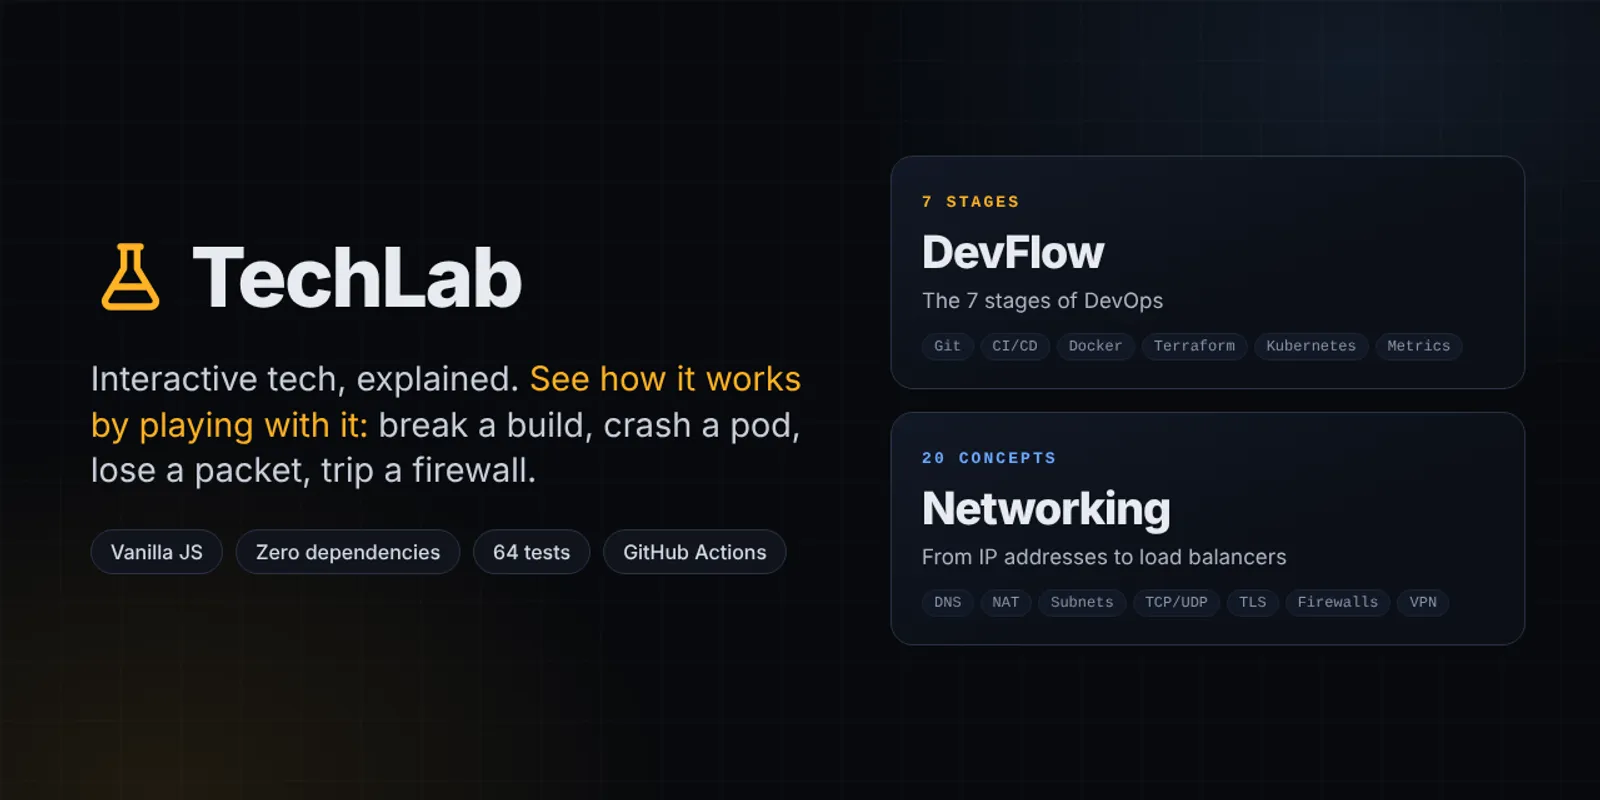
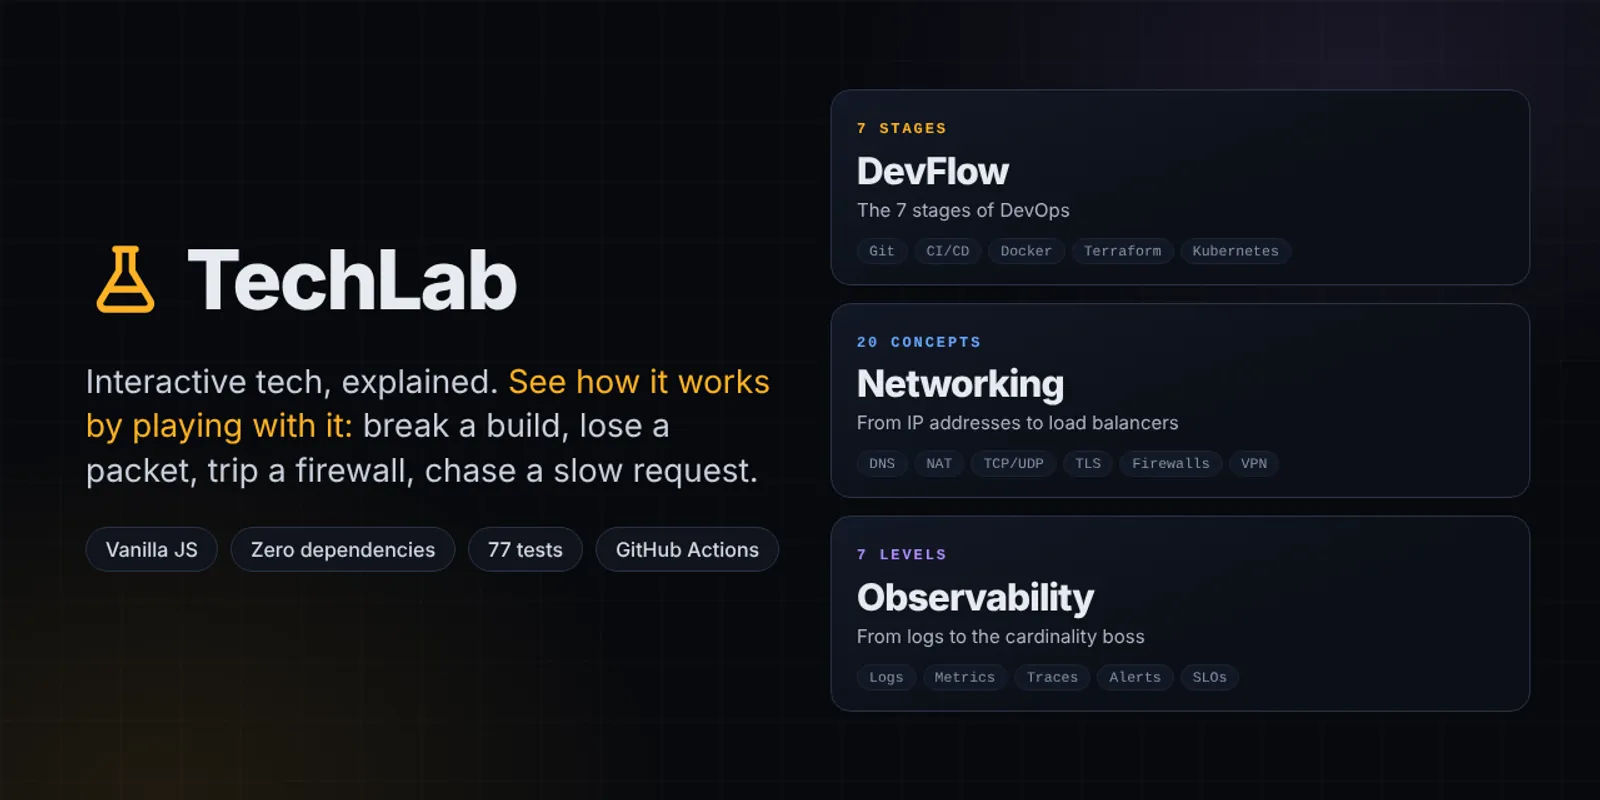
TechLab: add the Observability section

diff --git a/assets/js/data.js b/assets/js/data.js
@@ -72,13 +72,13 @@ const CV = {
       details:["Fictional field force for Solenne Biosciences in Portugal, preparing for the launch of a new medicine","11 skills in 5 areas, each with a target per role and a business demand level; a coach suggests the next quest from the biggest gaps","Five quest types, including playable quizzes and role-plays reviewed by the team lead before XP is awarded","XP, levels, daily streaks, badges, a weekly league and a shared team challenge, designed to stay fair: only learning earns XP","Team leads and L&D get adoption KPIs, a demand vs gap matrix, launch readiness and a skills heatmap with CSV export","Every game rule is a pure function covered by Vitest unit tests; React 19, Tailwind CSS v4 and Framer Motion on Vite","GitHub Actions tests, builds and deploys to GitHub Pages"] },
 { name:"TechLab", category:"Web", repo:"DiogoS7/TechLab",
       url:"https://github.com/DiogoS7/TechLab", demo:"https://diogos7.github.io/TechLab/",
-      desc:"Interactive tech, explained. A hub of hands-on simulations with two sections: DevFlow, the 7 stages of DevOps from a Git commit to production, and Networking, 20 must-know concepts from IP addresses and DNS to TCP, TLS, firewalls and load balancers.",
+      desc:"Interactive tech, explained. A hub of hands-on simulations with three sections: DevFlow, the 7 stages of DevOps from a Git commit to production; Networking, 20 must-know concepts from IP addresses and DNS to TCP, TLS, firewalls and load balancers; and Observability, 7 levels from logs to the cardinality boss, used to solve one incident.",
       skills:["JavaScript","HTML & CSS","Testing & QA","Automated testing & CI","Metrics & reporting","Documentation & traceability","Git & GitHub"],
       context:"Personal project · JavaScript · 2026",
       shots:[
-        {src:"assets/img/shots/techlab-cover.webp", caption:"TechLab: interactive tech, explained"},
-        {src:"assets/img/shots/techlab-demo.gif", caption:"From the hub into Networking: the OSI and Packets demos, a lost TCP segment being resent, and a firewall rule switched off"},
-        {src:"assets/img/shots/techlab-hub.webp", caption:"The hub: pick DevFlow or Networking"},
+        {src:"assets/img/shots/techlab-cover.webp?v=3", caption:"TechLab: interactive tech, explained"},
+        {src:"assets/img/shots/techlab-demo.gif?v=3", caption:"From the hub into Observability: structured logs, a slow release in p95, the slow span in a trace and the cardinality boss; then a lost TCP segment in Networking"},
+        {src:"assets/img/shots/techlab-hub.webp?v=3", caption:"The hub: pick DevFlow, Networking or Observability"},
         {src:"assets/img/shots/techlab-devflow.webp", caption:"DevFlow: the seven stages of DevOps as a stack"},
         {src:"assets/img/shots/techlab-devflow-cicd.webp", caption:"DevFlow · CI/CD: a broken build stops at unit tests and production keeps the last green build"},
         {src:"assets/img/shots/techlab-devflow-kubernetes.webp", caption:"DevFlow · Kubernetes: crash a pod and watch the control loop replace it"},
@@ -91,9 +91,18 @@ const CV = {
         {src:"assets/img/shots/techlab-net-firewall.webp", caption:"Firewalls: switch rules on and off; the first match decides"},
         {src:"assets/img/shots/techlab-net-lb.webp", caption:"Load balancers: round robin versus least connections, with one slow server"},
         {src:"assets/img/shots/techlab-journey.webp", caption:"Put it together: every concept in one page load of techlab.example"},
-        {src:"assets/img/shots/techlab-mobile.webp", caption:"Mobile: the hub, DevFlow and Networking on a phone"}
+        {src:"assets/img/shots/techlab-observability.webp", caption:"Observability: seven levels, from logs to the cardinality boss"},
+        {src:"assets/img/shots/techlab-obs-logs.webp", caption:"Logs: structured logs filtered by level and service instead of scrolling"},
+        {src:"assets/img/shots/techlab-obs-metrics.webp", caption:"Metrics: a slow release shows up in p95 while the average barely moves"},
+        {src:"assets/img/shots/techlab-obs-traces.webp", caption:"Traces: the waterfall shows the database span doing the waiting"},
+        {src:"assets/img/shots/techlab-obs-correlation.webp", caption:"Correlation: one request ID pulls up its logs, trace and metrics, including the culprit"},
+        {src:"assets/img/shots/techlab-obs-alerts.webp", caption:"Alerts: a sensible rule waits for the problem to last and pages once"},
+        {src:"assets/img/shots/techlab-obs-slos.webp", caption:"SLOs: SLI, SLO and SLA side by side, with the error budget burning"},
+        {src:"assets/img/shots/techlab-obs-cardinality.webp", caption:"The cardinality boss: a user ID label turns 60 time series into 60 million"},
+        {src:"assets/img/shots/techlab-incident.webp", caption:"Debug the incident: from the first page to the missing database index"},
+        {src:"assets/img/shots/techlab-mobile.webp?v=3", caption:"Mobile: the hub, Networking and Observability on a phone"}
       ],
-      details:["Two sections: DevFlow (7 DevOps stages, ending in a team self-check) and Networking (20 concepts, ending with all of them in one page load)","Every concept has a hands-on demo: revert a commit, crash a pod, lose a TCP segment, follow a DNS lookup, split a subnet, trip a firewall, compare load-balancing strategies","Simulation logic in pure functions: CIDR maths, longest-prefix routing, NAT, DHCP leases, ARP, switch learning, TCP/UDP, DNS TTLs, certificate checks, firewall rules, plus the DevOps pipeline, Terraform plan and Kubernetes control loop","One screen per concept with Previous/Next buttons, arrow keys and a clickable progress bar; every page has its own shareable address","Zero dependencies: plain JavaScript modules and CSS, no framework and no build step","64 unit tests on Node's built-in test runner","GitHub Actions tests, checks every file reference and deploys to GitHub Pages"] },
+      details:["Three sections: DevFlow (7 DevOps stages, ending in a team self-check), Networking (20 concepts, ending with all of them in one page load) and Observability (7 levels, ending with one incident debugged from page to fix)","Every concept has a hands-on demo: revert a commit, crash a pod, lose a TCP segment, follow a DNS lookup, trip a firewall, filter structured logs, find the slow span in a trace, fight the cardinality boss","Simulation logic in pure functions: the DevOps pipeline, Terraform plan and Kubernetes control loop; CIDR maths, routing, NAT, DHCP, ARP, TCP/UDP, DNS and certificate checks; log filtering, percentiles, trace self time, alert rules, SLO burn rate and cardinality","One screen per concept with Previous/Next buttons, arrow keys and a clickable progress bar; every page has its own shareable address","Zero dependencies: plain JavaScript modules and CSS, no framework and no build step","77 unit tests on Node's built-in test runner","GitHub Actions tests, checks every file reference and deploys to GitHub Pages"] },
 { name:"QualityView", category:"Web", repo:"DiogoS7/QualityView",
       url:"https://github.com/DiogoS7/QualityView", demo:"https://diogos7.github.io/QualityView/",
       desc:"Release-quality command centre for a QA lead or delivery consultant: test runs, defects, requirements traceability and a Go/No-Go verdict in one glass pane, plus a QA Agent you can ask about the release. Built in React on a fictional banking release.",

diff --git a/index.html b/index.html
@@ -38,7 +38,7 @@
   <div class="wrap">
     <div class="eyebrow">Business analyst &amp; QA consultant · Lisbon, Portugal</div>
     <h1>Diogo Santos</h1>
-    <p class="lede">I turn business needs into clear requirements, process models and tested solutions on Dynamics 365, Power Platform and Salesforce. Outside client work I build my own projects: QualityView, a release-quality dashboard in React; TechLab, interactive DevOps and networking demos; Houston on Power Platform; and Launchpad on Salesforce.</p>
+    <p class="lede">I turn business needs into clear requirements, process models and tested solutions on Dynamics 365, Power Platform and Salesforce. Outside client work I build my own projects: QualityView, a release-quality dashboard in React; TechLab, interactive DevOps, networking and observability demos; Houston on Power Platform; and Launchpad on Salesforce.</p>
     <div class="cta">
       <a class="btn primary" href="#journey">Start the launch ↓</a>
       <a class="btn" href="https://github.com/DiogoS7" target="_blank" rel="noopener">GitHub ↗</a>
